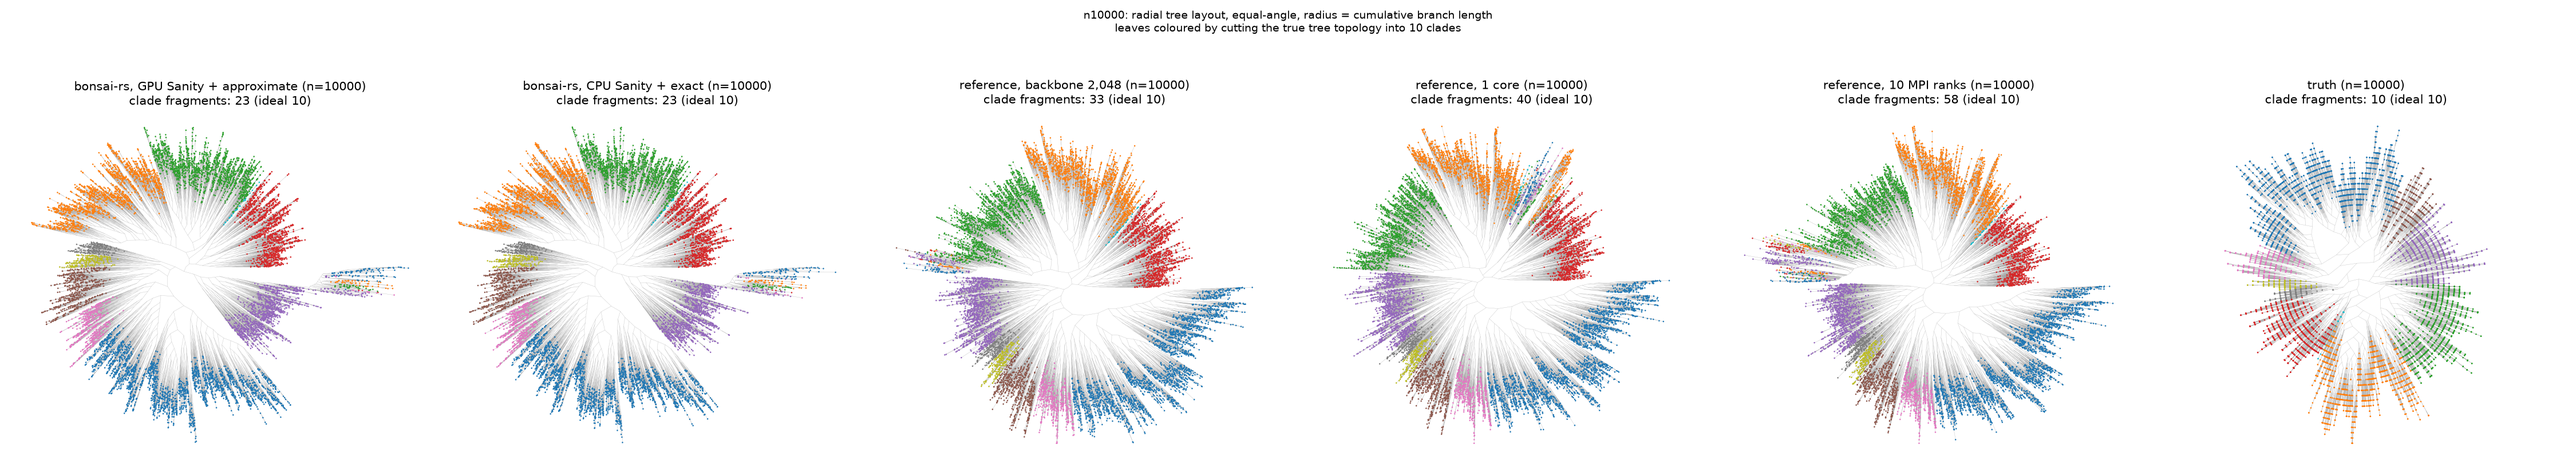
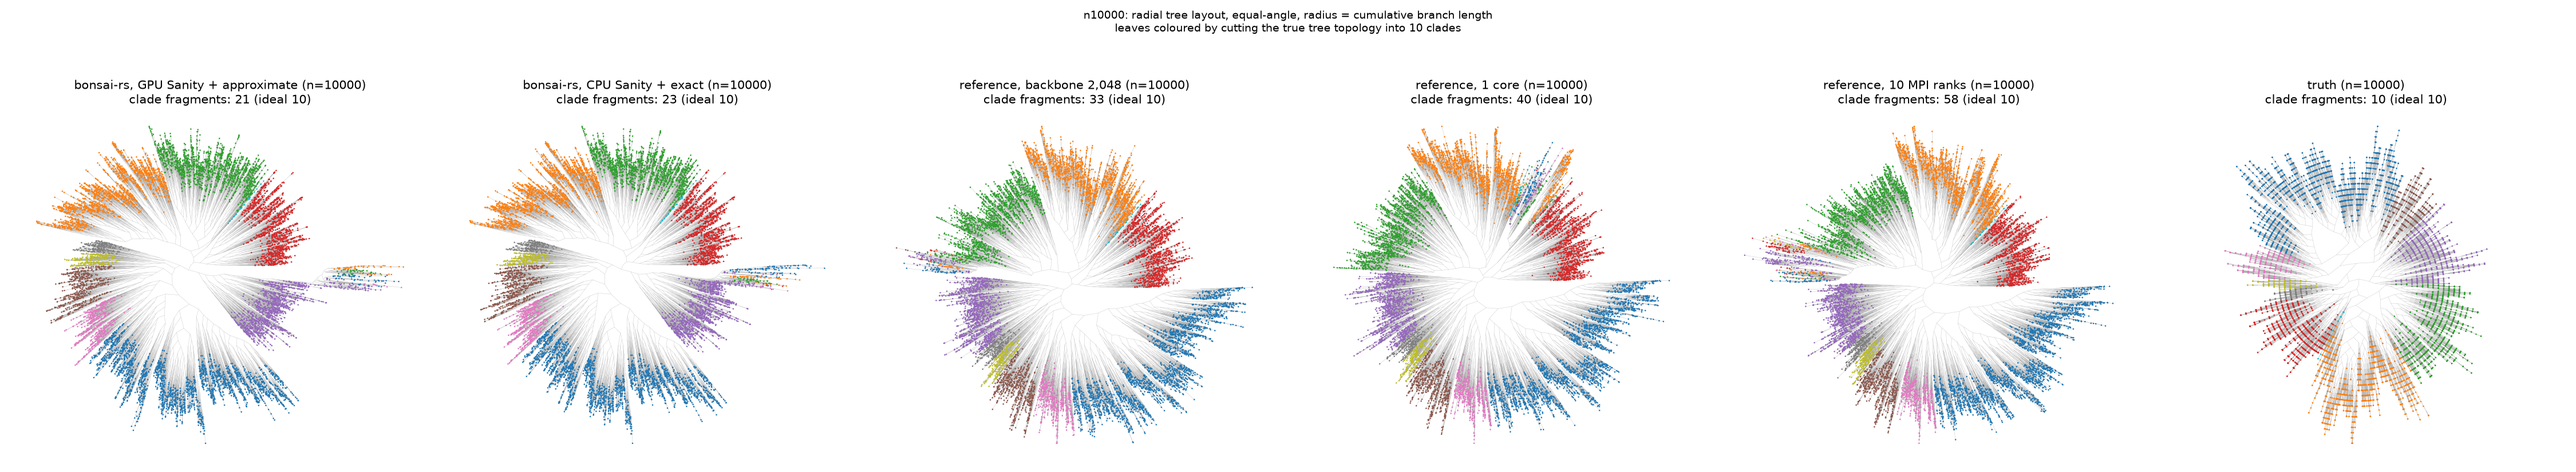
docs: counts to tree with sanity-sc-rs 0.4

diff --git a/docs/COMPARISON.md b/docs/COMPARISON.md
@@ -93,7 +93,8 @@ recovery are what it's for.
 ## Counts to tree
 
 Raw UMIs to finished tree on **one node**: ten-core M1 Max, 64 GB, each run
-alone. The Rust route is 0.2.2 with `sanity-sc-rs` 0.3.0, 2026-09-30; the
+alone. The Rust route is 0.2.2 with `sanity-sc-rs` 0.4.0 and `ann-search-rs`
+0.11.0, 2026-10-13; the
 original route is from 2026-09-25, its backbone runs from 2026-09-26. The
 published implementation can run MPI across nodes; nothing here speaks to a
 cluster.
@@ -119,10 +120,10 @@ Sanity, seconds:
 
 | cells | original | Rust, CPU | Rust, GPU |
 |---|---|---|---|
-| 512 | 71.9 | 4.6 | 0.7 |
-| 512 s32 | 72.1 | 4.4 | 0.5 |
-| 5,000 | 766.9 | 28.1 | 2.0 |
-| 10,000 | 1,604.7 | 56.4 | 3.5 |
+| 512 | 71.9 | 4.6 | 0.8 |
+| 512 s32 | 72.1 | 4.4 | 0.6 |
+| 5,000 | 766.9 | 29.7 | 1.7 |
+| 10,000 | 1,604.7 | 55.2 | 3.2 |
 
 Bonsai, seconds:
 
@@ -130,33 +131,33 @@ Bonsai, seconds:
 |---|---|---|---|---|---|
 | 512 | 371.7 | 170.2 | 4.2 | | 1.9 |
 | 512 s32 | 371.0 | | 4.5 | | 2.2 |
-| 5,000 | 4,868 | 3,208.6 | 100.7 | 2,514.0 | 29.7 |
-| 10,000 | 16,062 | 9,439.3 | 469.9 | 3,528.7 | 73.2 |
+| 5,000 | 4,868 | 3,208.6 | 94.3 | 2,514.0 | 28.0 |
+| 10,000 | 16,062 | 9,439.3 | 458.7 | 3,528.7 | 75.1 |
 
 Rust search times are on CPU-Sanity input. On GPU-Sanity input, exact took
-100.2 s and 438.4 s at 5,000 and 10,000, approximate 27.9 s and 71.0 s.
+110.2 s and 436.5 s at 5,000 and 10,000, approximate 28.8 s and 78.2 s.
 Published single-core times at 5,000 and 10,000 are the harness's, reproduced
 within half a per cent on 2026-09-14; the rest are reruns. The backbone with
 1,000 initial cells took 1,794.3 s and 3,594.3 s, with worse trees at both
 sizes (RF 1,959 and 4,191). The original route also spends 2.0, 0.8, 29.7 and
-66.5 s on gene selection, and the Rust route 0.1 to 1.7 s on the S5
+66.5 s on gene selection, and the Rust route 0.1 to 1.6 s on the S5
 conversion, both included below.
 
 End to end, exact, seconds:
 
 | cells | original, 1 core | original, 10 ranks | Rust CPU + exact | speed-up on 1 core / 10 ranks |
 |---|---|---|---|---|
-| 512 | 445.6 | 244.1 | 8.8 | 50x / 28x |
-| 512 s32 | 443.9 | | 8.9 | 50x / |
-| 5,000 | 5,664.2 | 4,005.2 | 129.6 | 44x / 31x |
-| 10,000 | 17,733.2 | 11,110.5 | 527.9 | 34x / 21x |
+| 512 | 445.6 | 244.1 | 8.9 | 50x / 27x |
+| 512 s32 | 443.9 | | 9.0 | 49x / |
+| 5,000 | 5,664.2 | 4,005.2 | 124.7 | 45x / 32x |
+| 10,000 | 17,733.2 | 11,110.5 | 515.5 | 34x / 22x |
 
 End to end, approximate, seconds:
 
 | cells | original, backbone | Rust CPU + approximate | Rust GPU + approximate | speed-up, CPU / GPU |
 |---|---|---|---|---|
-| 5,000 | 3,310.6 | 58.5 | 31.0 | 57x / 107x |
-| 10,000 | 5,199.9 | 131.2 | 76.2 | 40x / 68x |
+| 5,000 | 3,310.6 | 58.5 | 31.2 | 57x / 106x |
+| 10,000 | 5,199.9 | 131.9 | 83.0 | 39x / 63x |
 
 The original route is CPU only, so the CPU columns are the like-for-like
 reading; GPU is what a Rust user gets with an adapter.
@@ -166,10 +167,10 @@ positions, not the selected genes of the headline table:
 
 | cells | original, 1 core | original, 10 ranks | Rust CPU + exact | original, backbone | Rust GPU + approximate |
 |---|---|---|---|---|---|
-| 512 | RF 146, 0.492 | RF 141, 0.496 | RF 137, 0.632 | | RF 138, 0.631 |
-| 512 s32 | RF 240, 0.165 | | RF 241, 0.233 | | RF 225, 0.232 |
-| 5,000 | RF 1,937, 0.352 | RF 2,016, 0.261 | RF 1,278, 0.570 | RF 1,899, 0.456 | RF 1,285, 0.571 |
-| 10,000 | RF 5,149, 0.162 | RF 5,151, 0.226 | RF 2,634, 0.354 | RF 3,946, 0.252 | RF 2,624, 0.392 |
+| 512 | RF 146, 0.492 | RF 141, 0.496 | RF 137, 0.632 | | RF 139, 0.632 |
+| 512 s32 | RF 240, 0.165 | | RF 241, 0.233 | | RF 237, 0.224 |
+| 5,000 | RF 1,937, 0.352 | RF 2,016, 0.261 | RF 1,306, 0.406 | RF 1,899, 0.456 | RF 1,279, 0.569 |
+| 10,000 | RF 5,149, 0.162 | RF 5,151, 0.226 | RF 2,642, 0.295 | RF 3,946, 0.252 | RF 2,633, 0.390 |
 
 Published memory, peak RSS summed over processes: 543 MB, 2,965 MB, 5,686 MB at
 512, 5,000, 10,000 on one core; 3,009 MB, 10,033 MB, 18,737 MB with 10 ranks;
@@ -181,10 +182,15 @@ published routes at both sizes, and at 10,000 by 1,200 splits.
 
 Two cautions. Differences between the Rust Sanity paths and search modes sit
 inside the run-to-run spread ([performance](PERFORMANCE.md#how-much-one-real-data-run-says)).
-Across the four Sanity and search pairings recovery spans 0.401 to 0.571 at
-5,000 and 0.354 to 0.392 at 10,000, and the lowest is GPU input with exact
-search at 5,000 but CPU input with exact search at 10,000. That's a basin, not
-one Sanity path making worse trees. The gaps to the published trees, over 600
+Across the four Sanity and search pairings recovery spans 0.395 to 0.571 at
+5,000 and 0.295 to 0.390 at 10,000, lowest with exact search at both sizes.
+That's the search basin, not Sanity and not the neighbour graph. At 5,000, CPU
+Sanity and exact search, we ran the starting tree from `ann-search-rs` 0.9 (an
+approximate kNN graph) and from 0.11 (the exact one) through four random SPR
+orders each. Both split two and two: recovery near 0.41 or near 0.57,
+loglikelihoods over 985 nats. The default order happens to put 0.9 in the good
+basin and 0.11 in the poor one, 0.570 against 0.406. The kNN seed changes
+nothing in either. 10,000 is one run. The gaps to the published trees, over 600
 splits from 5,000 up, the backbone included, are far outside it.
 
 Same trees drawn as in [What the trees look like](#what-the-trees-look-like):
@@ -194,9 +200,9 @@ pairs for every tree.
 | cells | GPU + approximate | CPU + exact | reference, backbone | reference, 1 core | reference, 10 ranks |
 |---|---|---|---|---|---|
 | 512 | 13, 0.744 | 13, 0.745 | | 15, 0.638 | 14, 0.643 |
-| 512 s32 | 17, 0.372 | 17, 0.374 | | 19, 0.311 | |
-| 5,000 | 21, 0.673 | 23, 0.672 | 24, 0.589 | 29, 0.500 | 36, 0.402 |
-| 10,000 | 23, 0.478 | 23, 0.444 | 33, 0.348 | 40, 0.258 | 58, 0.323 |
+| 512 s32 | 17, 0.366 | 17, 0.374 | | 19, 0.311 | |
+| 5,000 | 25, 0.673 | 26, 0.556 | 24, 0.589 | 29, 0.500 | 36, 0.402 |
+| 10,000 | 21, 0.474 | 23, 0.386 | 33, 0.348 | 40, 0.258 | 58, 0.323 |
 
 ![radial layouts at 10,000 cells, counts to tree](figures/n10000_e2e_tree_layout.png)
 
